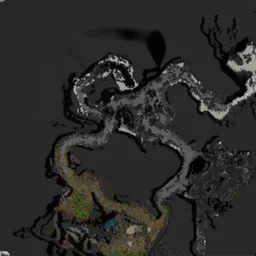
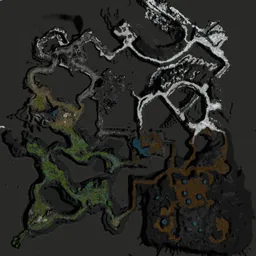
Piken Square dungeons: Tunnels of the Forsaken's three levels on their own map (from the game's files), with the way through each and the walk from Piken Square; Forsaken Tunnels' keys, locks and boss, entered from the NW; neither ticked NM/HM (an Eye of the North thing); Sorrow's Furnace's zoomed-o

diff --git a/dungeons.html b/dungeons.html
@@ -48,7 +48,7 @@ const COLS = [
   ["from", "Entered from", r => areaName(r.from[0]) || "~", r => r.from.map(i => LINK.area(i)).join(", ")],
   ["bounty", "Bounty", r => last(r.bounty), r => (r.bounty == null ? "" : r.bounty === 0 ? "<b>Today</b>" : inDays(r.bounty))],
   // done in normal and hard mode, as ticked for the character picked on My Characters
-  ["done", "Done", r => prog[r.l.id] || 0, r => doneTicks("dungeons", r.l.id, prog[r.l.id] || 0)],
+  ["done", "Done", r => prog[r.l.id] || 0, r => (isTickedDungeon(r.l.id) ? doneTicks("dungeons", r.l.id, prog[r.l.id] || 0) : "")],
 ];
 const NUM = new Set(["book", "levels", "bounty"]);
 const state = { sort: args().get("sort")?.replace(/^-/, "") || "book", desc: args().get("sort")?.startsWith("-") || false };
@@ -59,7 +59,7 @@ function render() {
   prog = User.char().dungeons;
   const [, , key] = COLS.find(c => c[0] === state.sort) || COLS[0];
   const cmp = (a, b) => { const x = key(a), y = key(b); return (typeof x === "number" ? x - y : x.localeCompare(y)) || a.l.name.localeCompare(b.l.name); };
-  const sorted = [...rows].filter(r => !done.value || missing(prog[r.l.id], done.value)).sort((a, b) => (state.desc ? -cmp(a, b) : cmp(a, b)));
+  const sorted = [...rows].filter(r => !done.value || isTickedDungeon(r.l.id) && missing(prog[r.l.id], done.value)).sort((a, b) => (state.desc ? -cmp(a, b) : cmp(a, b)));
   document.getElementById("head").innerHTML = `<tr>${COLS.map(([k, label]) => `<th class="c-${k}${NUM.has(k) ? " num" : ""}${k === "done" ? " bulk" : ""}"${k === "done" ? ' tabindex="0"' : ""}><button type="button" data-sort="${k}" class="${k === state.sort ? `sorted${state.desc ? " desc" : ""}` : ""}">${label}</button>${k === "done" ? bulkMenu("#list", true) : ""}</th>`).join("")}</tr>`;
   document.getElementById("list").innerHTML = sorted.map(r => `<tr>${COLS.map(([k, , , cell]) => `<td class="c-${k}${NUM.has(k) ? " num" : ""}">${cell(r)}</td>`).join("")}</tr>`).join("");
 }

diff --git a/data/depths.js b/data/depths.js
@@ -160,11 +160,18 @@ const GW_DEPTHS = {
       "book": 17,
       "levels": []
     },
+    "879": {
+      "levels": [
+        {"map": 880, "walk": 880, "marks": [["start", 31, 232], ["do", 313, 209, "Take the Elemental Keystone from the bandits"], ["lock", 319, 53, "Crystal Gate (the Keystone opens it)"], ["down", 319, 28]]},
+        {"map": 881, "walk": 881, "marks": [["start", 736, 417], ["down", 1008, 369]]},
+        {"map": 882, "walk": 882, "marks": [["start", 1330, 201], ["key", 1403, 325, "Boss Key, from the Enraged Phantom"], ["lock", 1474, 358, "Boss Lock"], ["boss", 1355, 397, "Varny the Zealot"]]}
+      ]
+    },
     "780": {
       "levels": [
-        {"map": 780, "walk": 780, "marks": [["portal", 172, 60, 147], ["portal", 93, 115, 147], ["down", 136, 326]]},
-        {"map": 877, "walk": 877, "marks": [["start", 508, 347], ["down", 550, 102]]},
-        {"map": 878, "walk": 878, "marks": [["start", 971, 232]]}
+        {"map": 780, "walk": 780, "marks": [["portal", 93, 115, 147], ["portal", 172, 60, 147], ["key", 143, 274, "Dungeon Key, from Wyle Brimscourge"], ["lock", 148, 310, "Dungeon Lock"], ["down", 136, 326]]},
+        {"map": 877, "walk": 877, "marks": [["start", 508, 347], ["do", 628, 120, "Take the Elemental Crystal from the Shard Elementals"], ["lock", 550, 112, "Crystal gate (the Crystal opens it)"], ["down", 550, 102]]},
+        {"map": 878, "walk": 878, "marks": [["start", 971, 232], ["key", 858, 159, "Boss Key"], ["lock", 995, 133, "Boss Lock"], ["boss", 880, 235, "Maz Scourgeheart"]]}
       ]
     }
   }

diff --git a/game/maps.js b/game/maps.js
@@ -44,7 +44,8 @@ const GW_MAPS = {
     "136": {"name": "Fetid River", "continent": 3, "w": 255, "h": 255},
     "137": {"name": "The Antechamber", "continent": 3, "w": 255, "h": 255},
     "138": {"name": "A Time for Heroes", "continent": 0, "w": 511, "h": 511},
-    "139": {"name": "Sorrow's Furnace", "continent": 0, "w": 1022, "h": 1022}
+    "139": {"name": "Sorrow's Furnace", "continent": 0, "w": 1022, "h": 1022},
+    "140": {"name": "Tunnels of the Forsaken", "continent": 0, "w": 1627, "h": 576}
   },
   "groups_": "The Maps page's tabs, in order: what each shows first, a box [x0, y0, x1, y1] on a set.",
   "groups": [
@@ -74,6 +75,7 @@ const GW_MAPS = {
     {"name": "Ring of Fire Islands", "group": "Tyria", "set": 0, "box": [1056, 7200, 2304, 8032]},
     {"name": "The Dragon's Lair", "group": "Tyria", "set": 121, "box": [0, 0, 511, 511]},
     {"name": "Sorrow's Furnace", "group": "Tyria", "set": 139, "box": [0, 0, 1022, 1022]},
+    {"name": "Tunnels of the Forsaken", "group": "Tyria", "set": 140, "box": [0, 0, 1627, 576]},
     {"name": "Tomb of the Primeval Kings", "group": "Tyria", "set": 131, "box": [0, 0, 319, 319]},
     {"name": "Shing Jea Island", "group": "Cantha", "set": 2, "box": [672, 2048, 2656, 3072]},
     {"name": "Kaineng City", "group": "Cantha", "set": 2, "box": [2496, 576, 4128, 2272]},
@@ -582,6 +584,9 @@ const GW_MAPS = {
     "862": 2,
     "877": 100,
     "878": 100,
+    "880": 140,
+    "881": 140,
+    "882": 140,
     "100000": 114,
     "100001": 114,
     "100002": 114,

diff --git a/common.js b/common.js
@@ -278,8 +278,9 @@ const entryName = e => (e.item || (e.creature && CREATURES[e.creature]?.name) ||
 // the marks and notes of what the picked character has left to do show only once it has a name of its own (not the
 // default Char<id>), as the top bar names it (header.js): before that, nothing says whose they'd be
 const userNamed = () => { if (User.stored() == null || User.broken()) return false; const c = User.char(); return !!c?.name.trim() && c.name !== `Char${c.id}`; };
-// the dungeons ticked done (Secret Lair of the Snowmen too; not Destruction's Depths, a mission)
-const isTickedDungeon = id => (USER_ALL.dungeons.includes(+id) || +id === 701) && +id !== 670;
+// the dungeons ticked done: the Eye of the North's (Secret Lair of the Snowmen too; not Destruction's Depths, a mission,
+// nor the Piken Square ones)
+const isTickedDungeon = id => (USER_ALL.dungeons.includes(+id) || +id === 701) && +id !== 670 && AREAS[id]?.campaign === 4;
 // a mission or dungeon ("missions" or "dungeons") the picked character hasn't completed: † in normal mode, ‡ in hard mode
 function modeMarks(part, id) {
   if (!(part === "missions" ? USER_ALL.missions.includes(+id) : isTickedDungeon(id)) || !userNamed()) return "";

diff --git a/dungeon.js b/dungeon.js
@@ -104,7 +104,7 @@ VIEWS.dungeon = (() => {
     return `
       <p class="back"><a href="dungeons">← All dungeons</a></p>
       <div class="lhead exp">
-        <div><h2>${esc(l.name)}${doneTicks("dungeons", d.id, undefined, "Done in")}</h2><div class="lsub"><span class="ltype t${l.type} dgn">Dungeon</span> <span>${esc(regionOf(l)?.name)}</span></div></div>
+        <div><h2>${esc(l.name)}${isTickedDungeon(d.id) ? doneTicks("dungeons", d.id, undefined, "Done in") : ""}</h2><div class="lsub"><span class="ltype t${l.type} dgn">Dungeon</span> <span>${esc(regionOf(l)?.name)}</span></div></div>
         <div class="lstats"><span class="lstat"><small>Levels</small><b>${d.levels.length || l.levels || "?"}</b></span>${l.party ? `<span class="lstat"><small>Party</small><b>${l.party}</b></span>` : ""}<span class="lstat dgtotal" hidden><small>Distance, compass ranges</small><b></b></span></div>
       </div>
       ${notes.length ? `<ul class="lnotes">${notes.map(noteLi).join("")}</ul>` : ""}

diff --git a/game/ground.js b/game/ground.js
@@ -1216,7 +1216,7 @@ const GW_GROUND = {
         {"to": 40, "at": [6865, 4270]},
         {"to": 13, "at": [6449, 4314]},
         {"to": 33, "at": [6678, 4465]},
-        {"to": 879}
+        {"to": 879, "at": [6850, 4370]}
       ],
       "order": 7.5,
       "foes": [108, 136],
@@ -1810,8 +1810,8 @@ const GW_GROUND = {
       "exits": [
         {"to": 146, "at": [903, 625]},
         {"to": 40, "dir": "E"},
-        {"to": 780, "at": [1179, 320]},
         {"to": 780, "at": [995, 293]},
+        {"to": 780, "at": [1179, 320]},
         {"to": 779, "at": [883, 430]},
         {"to": 779, "at": [918, 403]}
       ],
